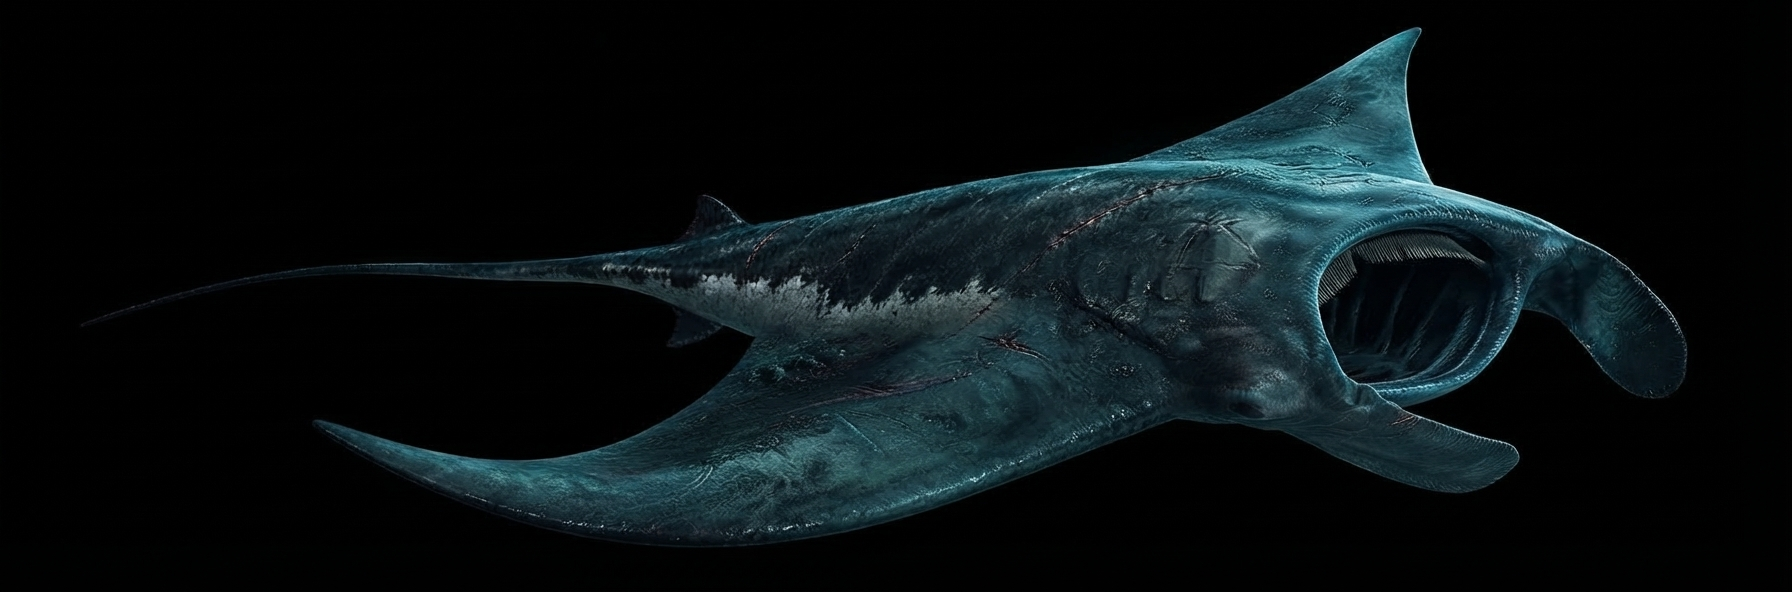
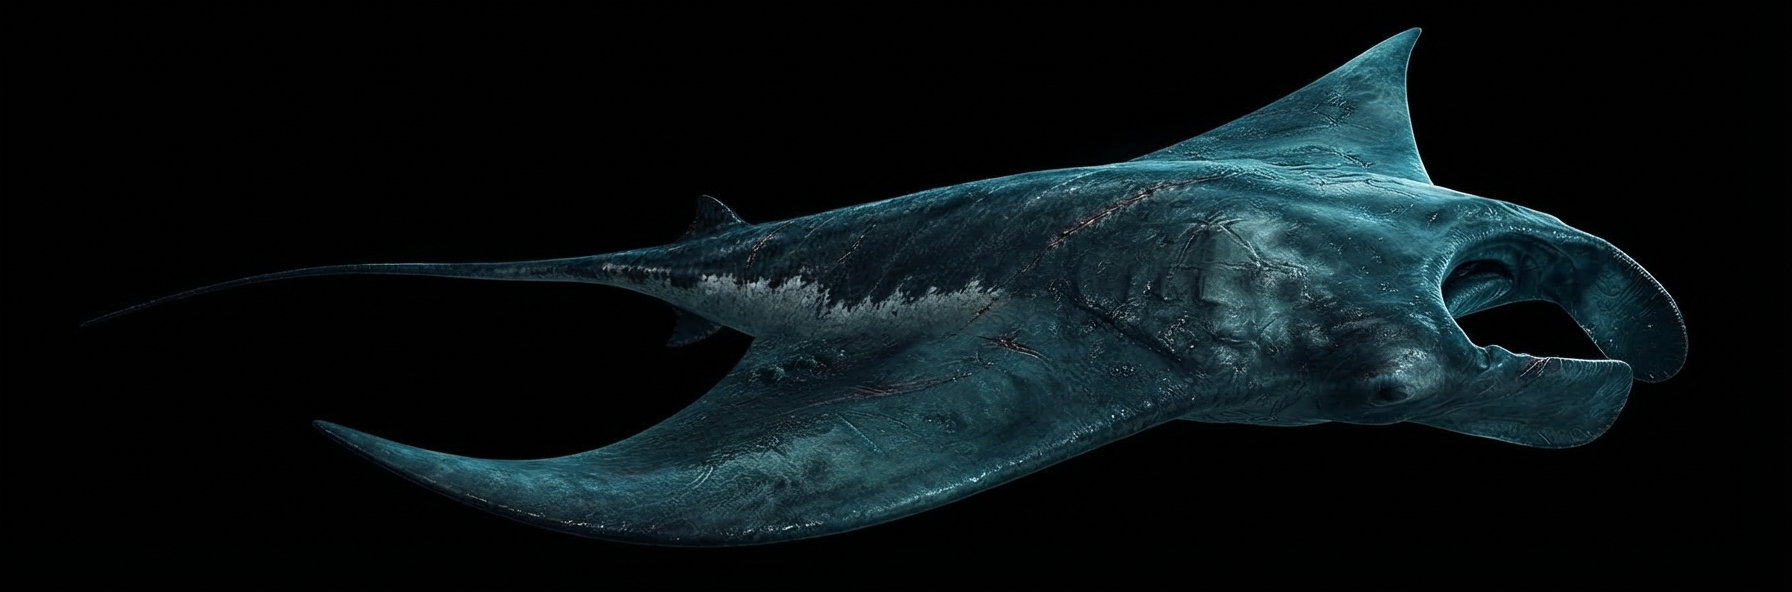
docs: v0.9.7 correzioni dopo la prova, testi Gemini per pareti e iceberg

diff --git a/docs/PROMPT-MONDO.md b/docs/PROMPT-MONDO.md
@@ -1,0 +1,39 @@
+# Immagini per il mondo: pareti tra le zone e iceberg
+
+Salvale in `art-inbox/` (o dove ti è comodo: le riconosco io) e dimmelo; poi ci penso io.
+Genera **tutte le pareti nella stessa chat**, così lo stile resta uguale. Usa il formato **verticale** più alto che Gemini permette (9:16).
+
+A cosa servono: oggi il confine tra una zona e l'altra (e il fondo degli abissi) è fatto di blocchi disegnati dal codice, dritti e brutti. Con queste pareti dipinte lo ricopro con rocce vere, una sopra l'altra, come le rocce dei fondali.
+
+## 1. Pareti di roccia (confini tra le zone)
+
+Tutte con lo stesso inizio; cambia solo la parte tra parentesi quadre.
+
+`Realistic dark fantasy underwater painting, a tall narrow vertical wall of [MATERIALE], seen from the side like a cliff in a 2D side-scrolling game, filling the whole height of the picture, about one third of the picture wide, with an irregular natural outline on both left and right edges. Lit softly from the upper left by a diver's lamp, the rest falling into darkness. Isolated on a pure black background, no water haze on the black, no creatures, no text.`
+
+| File | `[MATERIALE]` |
+|---|---|
+| `parete_roccia_1.jpg` | `dark basalt rock with cracks, ledges and a few barnacles` |
+| `parete_roccia_2.jpg` | `layered grey stone with deep crevices and hanging strands of seaweed` |
+| `parete_roccia_3.jpg` | `rough volcanic rock with holes and small sponges` |
+| `parete_corallo.jpg` | `rock covered in red and orange corals, sea fans and anemones, dimmed by the depth` |
+| `parete_ghiaccio.jpg` | `blue-white glacial ice with frozen bubbles, sharp ridges and cracks, faintly glowing from inside` |
+
+Se una viene troppo larga o con il fondo non nero, rifalla con: `Same wall, narrower, on a pure black background.`
+
+## 2. Iceberg del Mare di Ghiaccio
+
+Stessa chat, formato **orizzontale** 16:9. Vista di lato come in un gioco 2D: la parte sopra l'acqua piccola, quella sotto enorme.
+
+`Realistic dark fantasy painting of a single iceberg seen exactly from the side, as a cross-section for a 2D side-scrolling game: a small jagged white peak above a thin flat waterline, and a huge blue-white submerged mass below, with ridges, caves and hanging icicles, fading to deep blue at the bottom. Isolated on a pure black background, no sky, no water, no creatures, no text.`
+
+| File | Variante da aggiungere in fondo al prompt |
+|---|---|
+| `iceberg_1.jpg` | `Wide and massive, flat top.` |
+| `iceberg_2.jpg` | `Tall and narrow, a sharp peak.` |
+| `iceberg_3.jpg` | `Broken in two pieces, with a tunnel through the submerged part.` |
+| `iceberg_4.jpg` | `Small floating chunk, rounded, a few seals' claw marks.` |
+
+## 3. Retro (vista da dietro) di coccodrillo marino e squalo martello
+
+Usa lo stesso prompt che hai usato per gli altri retro in `docs/PROMPT-BATTAGLIA.md` e salvali come `coccodrillo_marino_back.jpg` e `squalo_martello_back.jpg`.

diff --git a/CHANGELOG.md b/CHANGELOG.md
@@ -2,6 +2,20 @@
 
 Cosa cambia per chi gioca, versione per versione. Ogni versione ha un'etichetta in git (`v0.1.0`, `v0.2.0`...) a cui si può sempre tornare.
 
+## v0.9.7 — Correzioni dopo la prova (2 ottobre 2026)
+
+- **Sfondamento:** ogni bestia Predatore o Corazzato impara dal livello 16 a rompere le ossa antiche (anche quando ti segue, non solo in sella). Vicino alle ossa un avviso dice cosa serve. La storia non richiede più per forza lo squalo bianco.
+- **Più grande = più forte:** il morso cresce con la taglia (lo squalo bianco ora morde più del barracuda) e le forme finali degli iniziali sono le più forti della linea.
+- **Livelli minimi** in base a grandezza e rarità: squalo bianco dal 15 (alfa dal 20), martello e tigre dall'11. Ogni tanto (5%) un esemplare molto più forte della zona.
+- **Livelli più lenti dopo il 20.**
+- **Battaglia:** se la tua bestia va KO (anche per l'attacco a sorpresa) entra subito la successiva; il riquadro del testo non copre più il tuo nome; murena più piccola e manta più grande; la conchiglia si apre in un lampo di raggi sfumati (niente più fascio tagliato).
+- **Porto:** pulsante "Riposa" (cura te e la squadra, e ti risvegli lì).
+- **Cavalcature e compagni** mangiano tutte le sardine che incontrano, con la bocca che si apre.
+- **Immagini:** la manta ha bocca aperta e chiusa al posto giusto; tolto il buco nella bocca aperta dello squalo martello.
+- Coccodrillo marino da 4 a 2 stelle.
+- **Luce della lampada** più soffusa: fascio largo e sfumato, alone più grande.
+- La barra della squadra e i pulsanti dello zaino in alto non si sovrappongono più.
+
 ## v0.9.6 — Primi suoni (1 ottobre 2026)
 
 - **Il mare si sente:** un rombo basso e ovattato che respira piano e diventa più cupo in profondità; bollicine mentre nuoti, una raffica quando scatti.

diff --git a/docs/DECISIONS.md b/docs/DECISIONS.md
@@ -244,3 +244,10 @@ Dopo 25 minuti di gioco il proprietario ha finito tutti i contenuti: livellare e
 
 - **Decisione:** primi suoni generati con Web Audio (rumore filtrato, oscillatori, batteria sintetica), note e volumi in `data/audio.ts`; nessuna libreria e nessun file audio. Il motore vive nella `Session` e si sblocca al primo tocco (obbligo di iOS).
 - **Motivo:** il proprietario vuole "un minimo" di suono subito; così niente licenze, niente peso in più per l’app offline, e si potrà sostituire con musiche vere più avanti.
+
+## 2026-10-02 — Sfondamento, livelli minimi, morso per taglia (scelte del proprietario)
+
+- **Sfondamento:** le ossa antiche le rompe ogni Predatore o Corazzato dal livello 16 (o una bestia nata con `sfondaOssa`), cavalcato o che ti segue; vicino alle ossa un avviso spiega cosa serve. Il proprietario: "almeno devi grindare un minimo".
+- **Livelli minimi:** pavimento = grandezza (piccola 0, media 2, grande 6, colossale 12) + rarità (1★ 0 … 5★ 14), albino +3, alfa +5; lo squalo bianco ha `minLevel` 15 (raro di suo). 5% di esemplari "fuori scala" (+5…10). La distanza dalla costa arriverà con l'oceano infinito. Il livello degli animali non segue quello della squadra (si perderebbe la sensazione di crescere).
+- **Morso:** × taglia (piccola 0,75 … colossale 1,45); cavalcature con morso base 2,6 (era 2) perché le forme finali degli iniziali mordevano meno della seconda.
+- **Conchiglia aperta:** l'immagine dipinta aveva il fascio di luce tagliato dal bordo; ora si usa la conchiglia chiusa e la luce (raggi sfumati) la disegna il gioco.

diff --git a/docs/PROGRESS.md b/docs/PROGRESS.md
@@ -35,6 +35,10 @@
 
 **Suoni (v0.9.6):** primo passaggio, tutto sintetizzato con Web Audio (niente file): `src/audio/` (soundEngine nella Session, seaAmbience, battleMusic), numeri e note in `data/audio.ts`. Interruttore nel menu di pausa (localStorage). Da fare più avanti: suoni di colpi, mosse, domatura, porto, musiche per zona.
 
+**v0.9.7 (correzioni dopo la prova, 2 ottobre):** Sfondamento (`ABILITIES.sfondamento`, `breaksBones`, avviso `bonesHint`); morso × taglia (`SIZE_BITE`, cavalcatura bite 2,6); livelli minimi (`WILD_LEVELS`, `minLevel` dello squalo bianco 15, fuori scala 5%); curva XP più lenta dopo il 20; KO → subito la bestia successiva (`BattleScene.replaceFainted`); `BATTLE_STAGE.pictureMult` (murena, manta); `restAtPort` e pulsante Riposa; tutte le bestie in acqua mangiano (`FEEDING.minReach`); lampada soffusa; conchiglia con raggi disegnati; script art: `SIDE_MOUTH` (bocca del martello). Testi per Gemini: `docs/PROMPT-MONDO.md` (pareti, iceberg). 263 test.
+
+**Da fare (piano B e C approvati):** squadra ordinabile e cure singole nel menu; esche al porto; conchiglie limitate e in vendita; predatori che escono dalla zona e tornano; barracuda in branco e prudenti con prede più grosse; mappa nel menu; scatto in sella ripensato; nuoto verticale e virata; Mare di Ghiaccio e pareti dipinte (quando arrivano le immagini).
+
 **Prossima sessione:** tappa 11, l'oceano infinito a destra (biomi generati, mute per immersioni lunghe e punti per l'ossigeno). Proporre il piano prima.
 
 ## Sessione 10 — Battaglia più bella (1 ottobre 2026) → v0.8.0
